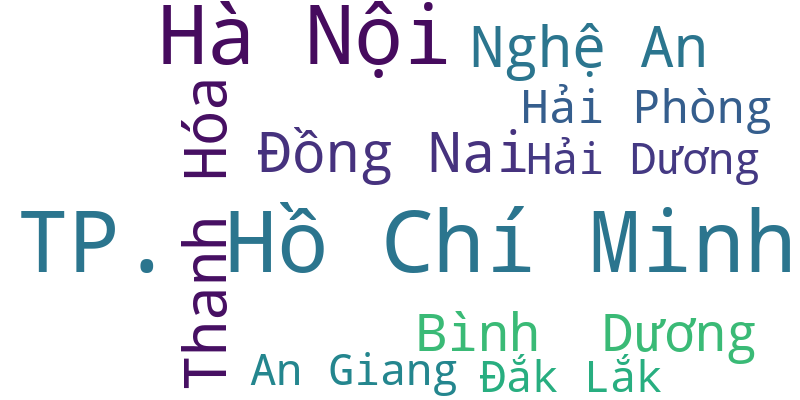
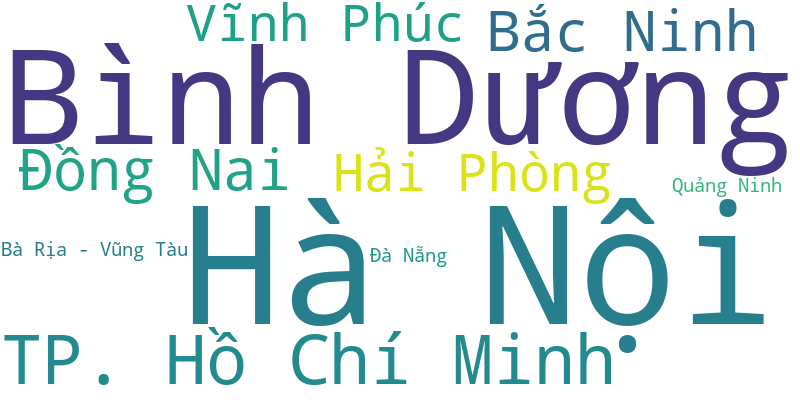
pato update default port and add income's word cloud

diff --git a/templates/income_chart.html b/templates/income_chart.html
@@ -17,6 +17,10 @@
 
     <canvas id="barChart" width="200" height="200"></canvas>
 
+    <div class="text-center mt-5">
+        <img src="/static/images/wordcloud.png" alt="Word Cloud theo thu nhập">
+    </div>
+    
     <script src="https://code.jquery.com/jquery-3.6.0.min.js"></script>
     <script>
         var ctx = document.getElementById('barChart').getContext('2d');

diff --git a/app.py b/app.py
@@ -56,18 +56,18 @@ def convert_to_float(df, column_name):
 #     return data
 
 # Tạo word cloud từ dữ liệu
-# def create_word_cloud(data):
-#     word_freq = {item[0]: item[1] for item in data}
+def create_word_cloud(data):
+    word_freq = {item[0]: item[1] for item in data}
 
-#     wordcloud = WordCloud(width=800, height=400, 
-#                           background_color="white").generate_from_frequencies(word_freq)
+    wordcloud = WordCloud(width=800, height=400, 
+                          background_color="white").generate_from_frequencies(word_freq)
 
-#     # Đảm bảo thư mục tồn tại
-#     if not os.path.exists('static/images'):
-#         os.makedirs('static/images')
+    # Đảm bảo thư mục tồn tại
+    if not os.path.exists('static/images'):
+        os.makedirs('static/images')
 
-#     # Lưu word cloud thành file hình ảnh
-#     wordcloud.to_file('static/images/wordcloud.png')
+    # Lưu word cloud thành file hình ảnh
+    wordcloud.to_file('static/images/wordcloud.png')
 
 # Route để hiển thị popluation theo bar chart
 # @app.route('/')
@@ -310,6 +310,9 @@ def income_doughnut_chart():
 
     sendingData = {"provinces": provinces, "money": money}
 
+    # create income's wordcloud
+    create_word_cloud(data)
+
     return render_template('income_chart.html', data=sendingData, selected_year=selected_year)
 
 
@@ -504,5 +507,5 @@ if __name__ == '__main__':
     # app.run(debug=True)
     import os
 
-    port = int(os.environ.get('PORT', 8780))  # Dùng 8080 là port mặc định khi không có biến môi trường
+    port = int(os.environ.get('PORT', 8080))  # Dùng 8080 là port mặc định khi không có biến môi trường
     app.run(host='0.0.0.0', debug=True, port=port)
